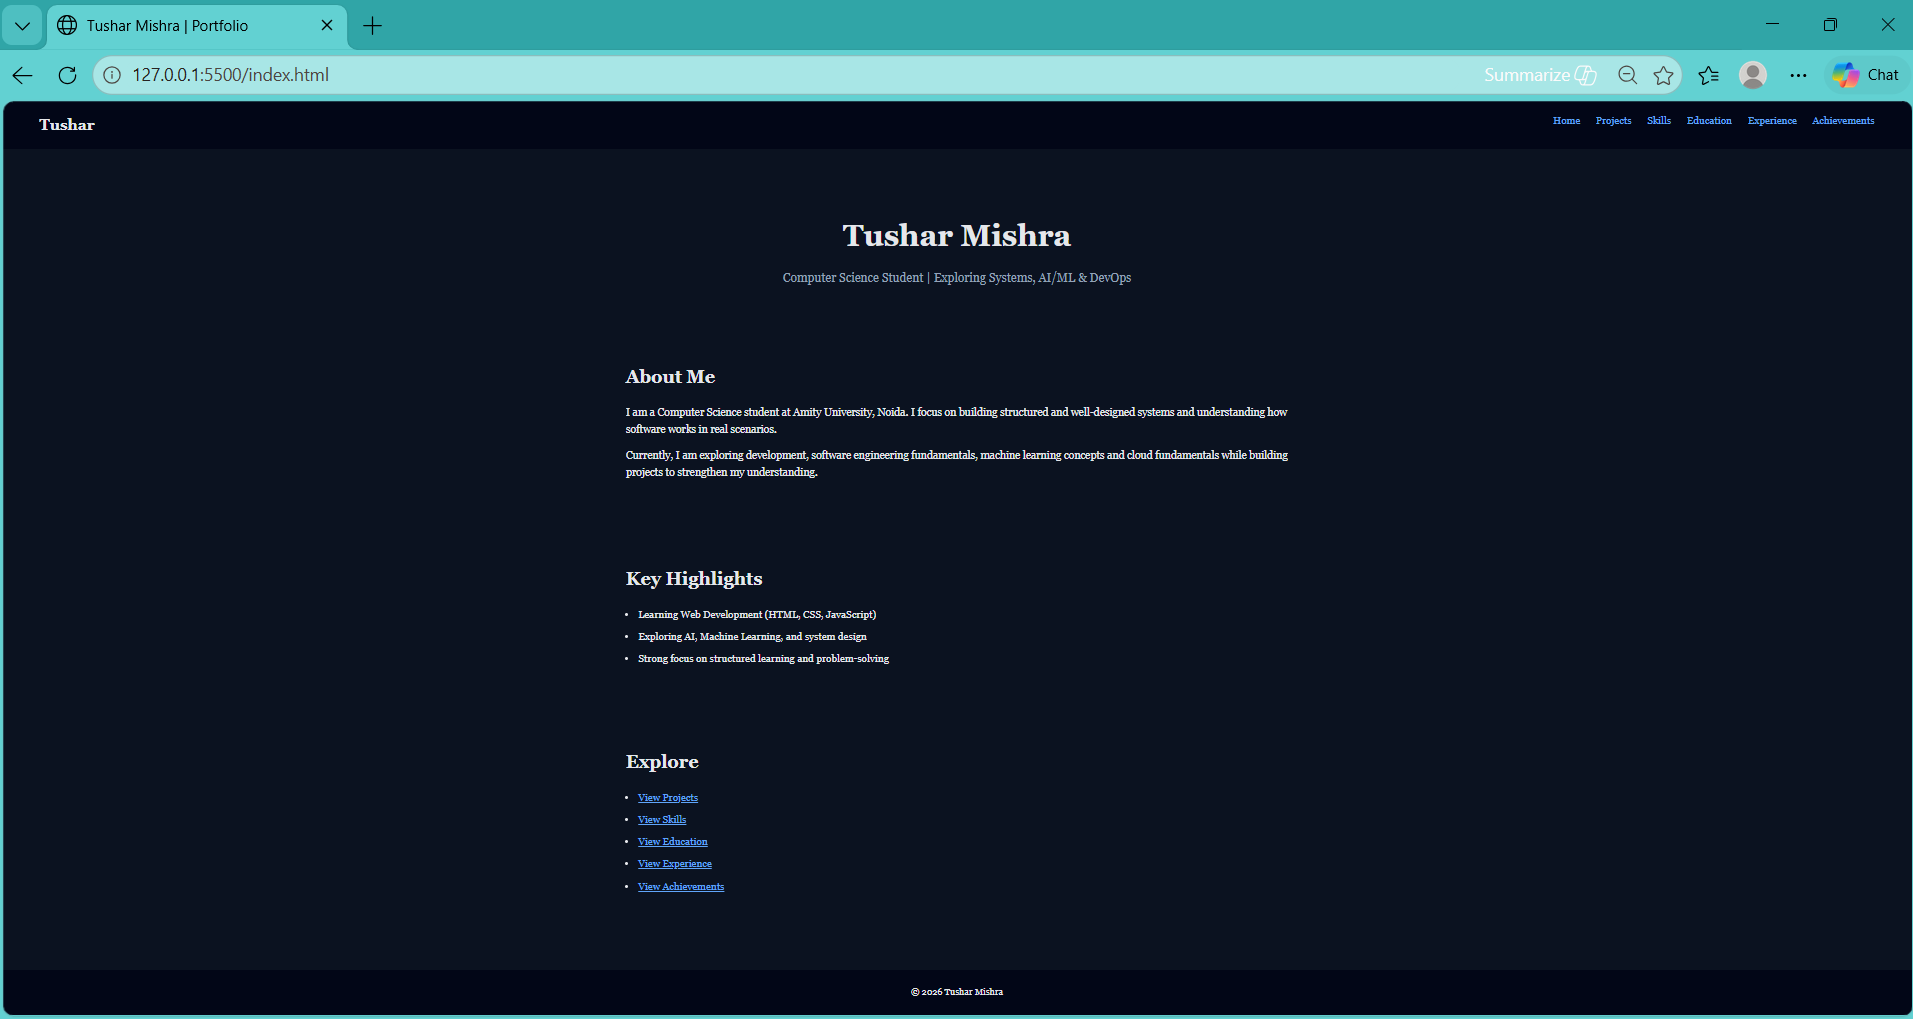
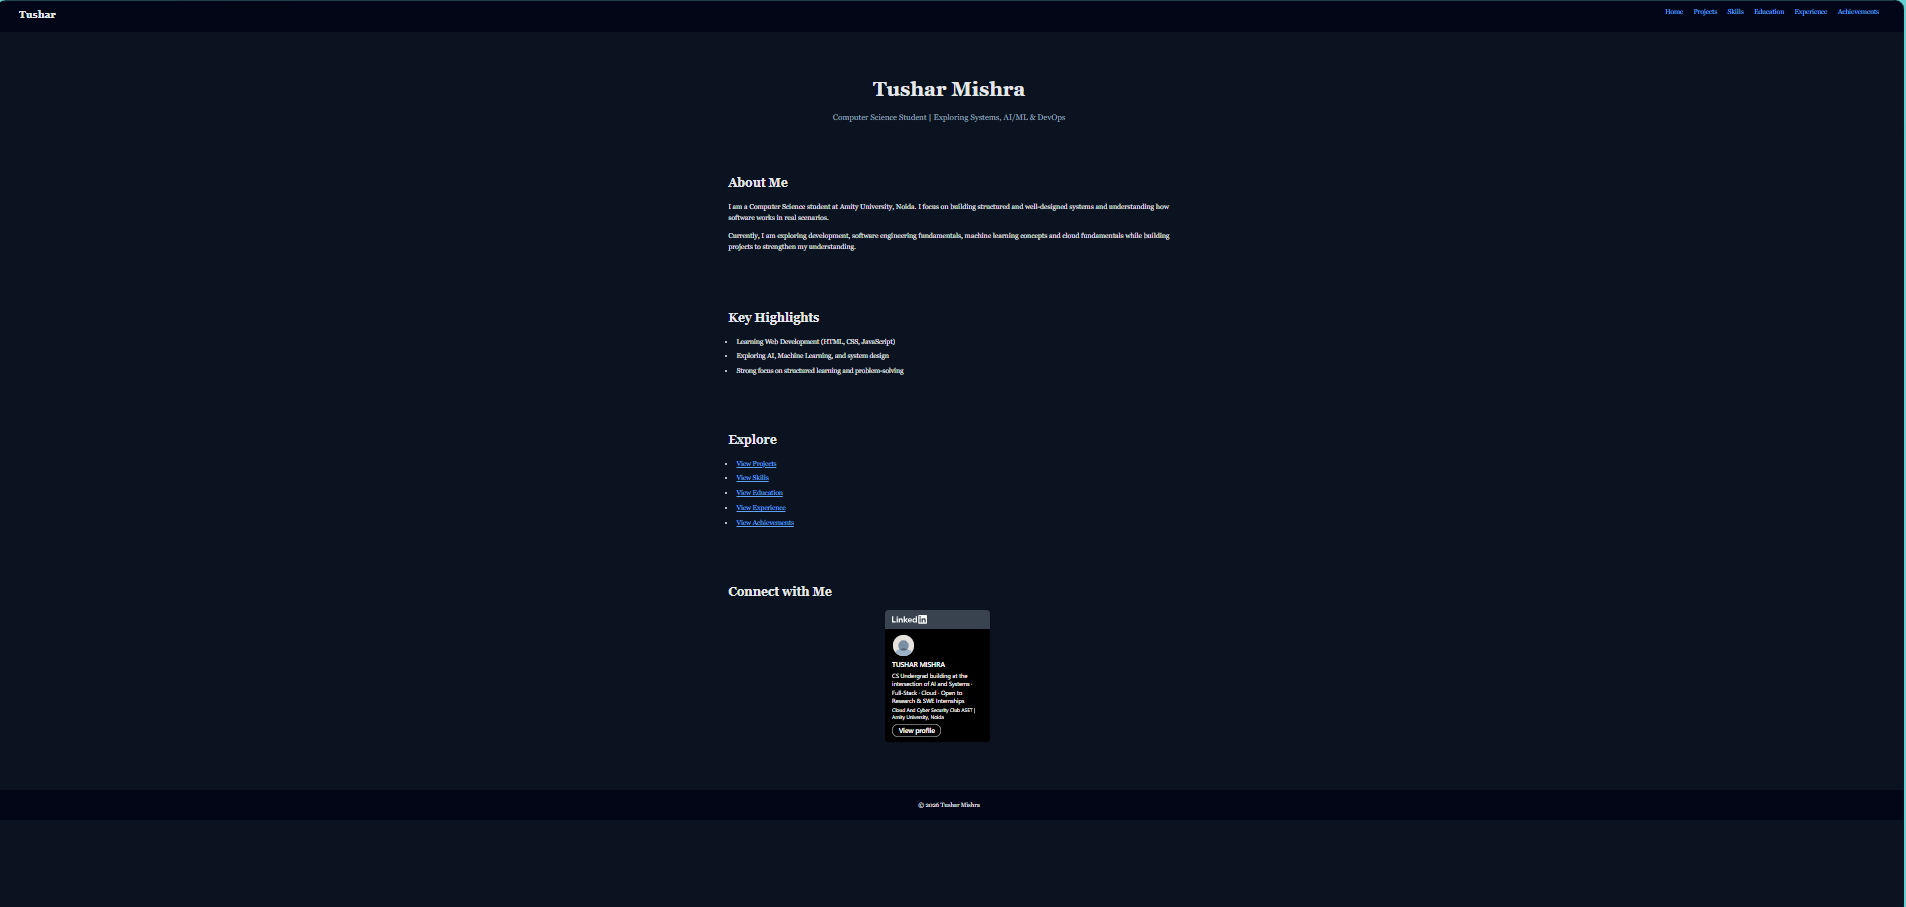
Added LinkedIn badge section to portfolio

diff --git a/index.html b/index.html
@@ -62,10 +62,27 @@
         </ul>
     </section>
 
+    <!-- CONNECT -->
+    <section class="section">
+        <h2>Connect with Me</h2>
+            <div style="display: flex; justify-content: center; margin-top: 20px;">
+            <div class="badge-base LI-profile-badge"
+                data-locale="en_US"
+                data-size="medium"
+                data-theme="dark"
+                data-type="VERTICAL"
+                data-vanity="tusharr-mishra"
+                data-version="v1">
+            </div>
+        </div>
+    </section>
+
     <!-- FOOTER -->
     <footer>
         <p>© 2026 Tushar Mishra</p>
     </footer>
 
+    <script src="https://platform.linkedin.com/badges/js/profile.js" async defer></script>
+    
 </body>
 </html>
